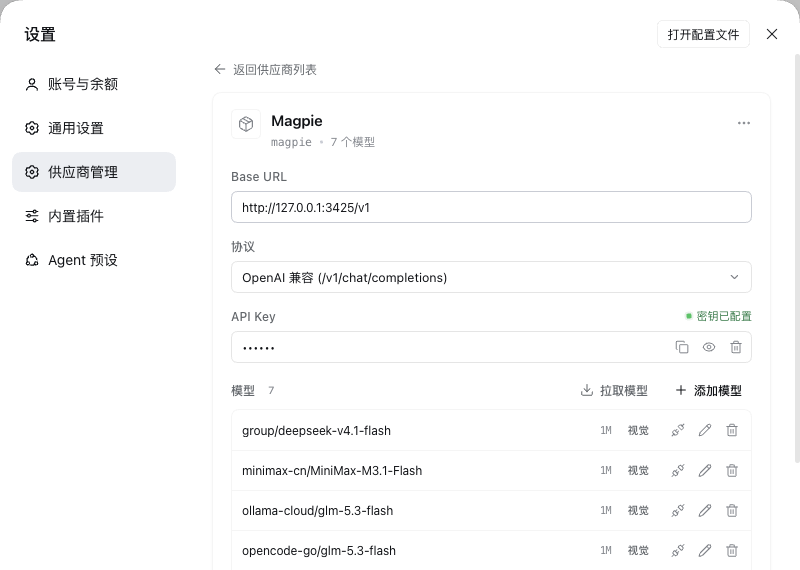
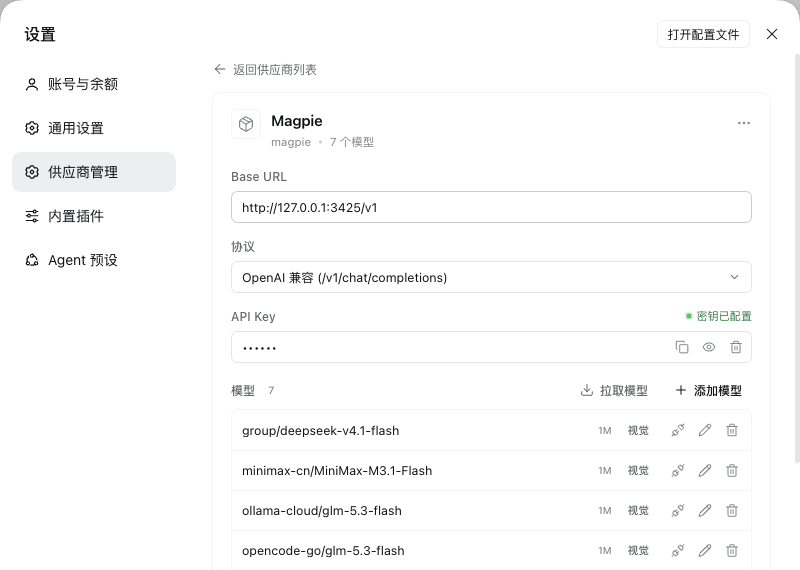
Use the UI font everywhere (drop monospace for model ids and inputs)

diff --git a/client.js b/client.js
@@ -4334,7 +4334,6 @@ window.__ModuleLoader__.load({
     // src/client/styles.js
     var CSS = `
     .dpp-root{
-      --dpp-mono:var(--dsw-font-mono,ui-monospace,"SF Mono",SFMono-Regular,Menlo,Consolas,monospace);
       --dpp-fg:var(--dsw-alias-label-primary,#17181a);
       --dpp-fg2:var(--dsw-alias-label-secondary,#5b6070);
       --dpp-fg3:var(--dsw-alias-label-tertiary,#8a8f9d);
@@ -4376,7 +4375,7 @@ window.__ModuleLoader__.load({
     .dpp-root h2,.dpp-root h3,.dpp-root h4{font-family:inherit}
     .dpp-root ::selection{background:var(--dpp-brandSoft2)}
     .dpp-i{display:block;flex:none}
-    .dpp-mono{font-family:var(--dpp-mono);font-size:11.5px;letter-spacing:-.01em}
+    .dpp-mono{font-size:11.5px;letter-spacing:0}
     .dpp-srOnly{position:absolute;width:1px;height:1px;padding:0;margin:-1px;overflow:hidden;clip:rect(0,0,0,0);white-space:nowrap;border:0}
 
     /* ------------------------------------------------------------------ motion */
@@ -4440,7 +4439,7 @@ window.__ModuleLoader__.load({
     .dpp-input:hover:not(:disabled):not(:focus){border-color:var(--dpp-line2)}
     .dpp-input:focus{outline:0;border-color:var(--dpp-brand);box-shadow:0 0 0 3px var(--dpp-brandSoft)}
     .dpp-input:disabled{background:var(--dpp-surface2);color:var(--dpp-fg3);cursor:not-allowed}
-    .dpp-inputMono{font-family:var(--dpp-mono);font-size:12px;letter-spacing:-.01em}
+    .dpp-inputMono{font-size:12.5px;letter-spacing:0}
     .dpp-inputSearch{padding-left:30px;padding-right:30px}
     .dpp-readonly{display:flex;align-items:center;min-height:32px;padding:0 10px;border:1px solid var(--dpp-line1);border-radius:var(--dpp-r-sm);background:var(--dpp-surface2);color:var(--dpp-fg2);font-size:12.5px}
     .dpp-field{display:flex;flex-direction:column;gap:6px;min-width:0}
@@ -4529,7 +4528,7 @@ window.__ModuleLoader__.load({
 
     /* ------------------------------------------------------------------ badges */
     .dpp-badge{display:inline-flex;align-items:center;height:20px;padding:0 6px;border-radius:5px;background:var(--dpp-fill);color:var(--dpp-fg2);font-size:10.5px;font-weight:500;letter-spacing:.01em;white-space:nowrap}
-    .dpp-badgeMono{font-family:var(--dpp-mono);font-size:10px;letter-spacing:-.01em;color:var(--dpp-fg3)}
+    .dpp-badgeMono{font-size:10px;letter-spacing:0;color:var(--dpp-fg3)}
     .dpp-result{display:inline-flex;align-items:center;gap:4px;height:20px;padding:0 6px;border-radius:5px;font-size:10.5px;font-weight:500;white-space:nowrap;animation:dppFadeIn var(--dpp-t) var(--dpp-ease)}
     .dpp-result.is-ok{background:var(--dpp-okSoft);color:var(--dpp-okLabel)}
     .dpp-result.is-err{background:var(--dpp-badSoft);color:var(--dpp-badLabel)}
@@ -4539,7 +4538,7 @@ window.__ModuleLoader__.load({
     .dpp-modelRow{display:flex;align-items:center;gap:8px;min-height:40px;padding:0 6px 0 10px;animation:dppRowIn var(--dpp-t) var(--dpp-ease) backwards;animation-delay:calc(var(--dpp-i,0) * 12ms);transition:background var(--dpp-t-fast)}
     .dpp-modelRow + .dpp-modelRow{border-top:1px solid var(--dpp-line1)}
     .dpp-modelRow:hover{background:var(--dpp-surface2)}
-    .dpp-modelName{flex:1;min-width:0;overflow:hidden;text-overflow:ellipsis;white-space:nowrap;padding:0;border:0;background:none;color:var(--dpp-fg);font-family:var(--dpp-mono);font-size:12px;letter-spacing:-.01em;text-align:left;cursor:pointer;transition:color var(--dpp-t)}
+    .dpp-modelName{flex:1;min-width:0;overflow:hidden;text-overflow:ellipsis;white-space:nowrap;padding:0;border:0;background:none;color:var(--dpp-fg);font-size:12.5px;letter-spacing:0;text-align:left;cursor:pointer;transition:color var(--dpp-t)}
     .dpp-modelName:hover:not(:disabled){color:var(--dpp-brand)}
     .dpp-modelName:disabled{cursor:default}
     .dpp-modelBadges{display:flex;align-items:center;gap:4px;flex:none}
@@ -4577,7 +4576,7 @@ window.__ModuleLoader__.load({
     .dpp-pickRow:hover .dpp-checkbox{border-color:var(--dpp-fg4)}
     .dpp-checkbox.is-on{background:var(--dpp-brand);border-color:var(--dpp-brand);animation:dppPop var(--dpp-t) var(--dpp-ease)}
     .dpp-pickMain{display:flex;align-items:center;min-width:0;flex:1}
-    .dpp-pickId{overflow:hidden;text-overflow:ellipsis;white-space:nowrap;font-family:var(--dpp-mono);font-size:12px;letter-spacing:-.01em}
+    .dpp-pickId{overflow:hidden;text-overflow:ellipsis;white-space:nowrap;font-size:12.5px;letter-spacing:0}
     .dpp-pickEmpty{display:flex;align-items:center;justify-content:center;gap:8px;padding:36px 0;color:var(--dpp-fg3);font-size:12px}
 
     /* -------------------------------------------------------------------- tpls */

diff --git a/src/client/styles.js b/src/client/styles.js
@@ -10,7 +10,6 @@
  */
 export const CSS = `
 .dpp-root{
-  --dpp-mono:var(--dsw-font-mono,ui-monospace,"SF Mono",SFMono-Regular,Menlo,Consolas,monospace);
   --dpp-fg:var(--dsw-alias-label-primary,#17181a);
   --dpp-fg2:var(--dsw-alias-label-secondary,#5b6070);
   --dpp-fg3:var(--dsw-alias-label-tertiary,#8a8f9d);
@@ -52,7 +51,7 @@ export const CSS = `
 .dpp-root h2,.dpp-root h3,.dpp-root h4{font-family:inherit}
 .dpp-root ::selection{background:var(--dpp-brandSoft2)}
 .dpp-i{display:block;flex:none}
-.dpp-mono{font-family:var(--dpp-mono);font-size:11.5px;letter-spacing:-.01em}
+.dpp-mono{font-size:11.5px;letter-spacing:0}
 .dpp-srOnly{position:absolute;width:1px;height:1px;padding:0;margin:-1px;overflow:hidden;clip:rect(0,0,0,0);white-space:nowrap;border:0}
 
 /* ------------------------------------------------------------------ motion */
@@ -116,7 +115,7 @@ export const CSS = `
 .dpp-input:hover:not(:disabled):not(:focus){border-color:var(--dpp-line2)}
 .dpp-input:focus{outline:0;border-color:var(--dpp-brand);box-shadow:0 0 0 3px var(--dpp-brandSoft)}
 .dpp-input:disabled{background:var(--dpp-surface2);color:var(--dpp-fg3);cursor:not-allowed}
-.dpp-inputMono{font-family:var(--dpp-mono);font-size:12px;letter-spacing:-.01em}
+.dpp-inputMono{font-size:12.5px;letter-spacing:0}
 .dpp-inputSearch{padding-left:30px;padding-right:30px}
 .dpp-readonly{display:flex;align-items:center;min-height:32px;padding:0 10px;border:1px solid var(--dpp-line1);border-radius:var(--dpp-r-sm);background:var(--dpp-surface2);color:var(--dpp-fg2);font-size:12.5px}
 .dpp-field{display:flex;flex-direction:column;gap:6px;min-width:0}
@@ -205,7 +204,7 @@ export const CSS = `
 
 /* ------------------------------------------------------------------ badges */
 .dpp-badge{display:inline-flex;align-items:center;height:20px;padding:0 6px;border-radius:5px;background:var(--dpp-fill);color:var(--dpp-fg2);font-size:10.5px;font-weight:500;letter-spacing:.01em;white-space:nowrap}
-.dpp-badgeMono{font-family:var(--dpp-mono);font-size:10px;letter-spacing:-.01em;color:var(--dpp-fg3)}
+.dpp-badgeMono{font-size:10px;letter-spacing:0;color:var(--dpp-fg3)}
 .dpp-result{display:inline-flex;align-items:center;gap:4px;height:20px;padding:0 6px;border-radius:5px;font-size:10.5px;font-weight:500;white-space:nowrap;animation:dppFadeIn var(--dpp-t) var(--dpp-ease)}
 .dpp-result.is-ok{background:var(--dpp-okSoft);color:var(--dpp-okLabel)}
 .dpp-result.is-err{background:var(--dpp-badSoft);color:var(--dpp-badLabel)}
@@ -215,7 +214,7 @@ export const CSS = `
 .dpp-modelRow{display:flex;align-items:center;gap:8px;min-height:40px;padding:0 6px 0 10px;animation:dppRowIn var(--dpp-t) var(--dpp-ease) backwards;animation-delay:calc(var(--dpp-i,0) * 12ms);transition:background var(--dpp-t-fast)}
 .dpp-modelRow + .dpp-modelRow{border-top:1px solid var(--dpp-line1)}
 .dpp-modelRow:hover{background:var(--dpp-surface2)}
-.dpp-modelName{flex:1;min-width:0;overflow:hidden;text-overflow:ellipsis;white-space:nowrap;padding:0;border:0;background:none;color:var(--dpp-fg);font-family:var(--dpp-mono);font-size:12px;letter-spacing:-.01em;text-align:left;cursor:pointer;transition:color var(--dpp-t)}
+.dpp-modelName{flex:1;min-width:0;overflow:hidden;text-overflow:ellipsis;white-space:nowrap;padding:0;border:0;background:none;color:var(--dpp-fg);font-size:12.5px;letter-spacing:0;text-align:left;cursor:pointer;transition:color var(--dpp-t)}
 .dpp-modelName:hover:not(:disabled){color:var(--dpp-brand)}
 .dpp-modelName:disabled{cursor:default}
 .dpp-modelBadges{display:flex;align-items:center;gap:4px;flex:none}
@@ -253,7 +252,7 @@ export const CSS = `
 .dpp-pickRow:hover .dpp-checkbox{border-color:var(--dpp-fg4)}
 .dpp-checkbox.is-on{background:var(--dpp-brand);border-color:var(--dpp-brand);animation:dppPop var(--dpp-t) var(--dpp-ease)}
 .dpp-pickMain{display:flex;align-items:center;min-width:0;flex:1}
-.dpp-pickId{overflow:hidden;text-overflow:ellipsis;white-space:nowrap;font-family:var(--dpp-mono);font-size:12px;letter-spacing:-.01em}
+.dpp-pickId{overflow:hidden;text-overflow:ellipsis;white-space:nowrap;font-size:12.5px;letter-spacing:0}
 .dpp-pickEmpty{display:flex;align-items:center;justify-content:center;gap:8px;padding:36px 0;color:var(--dpp-fg3);font-size:12px}
 
 /* -------------------------------------------------------------------- tpls */
